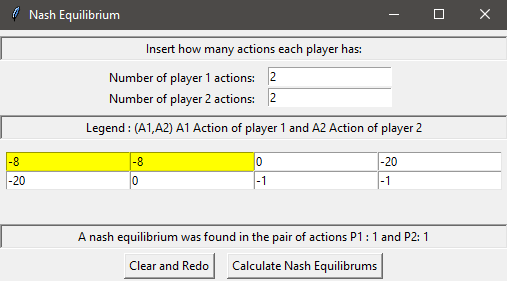
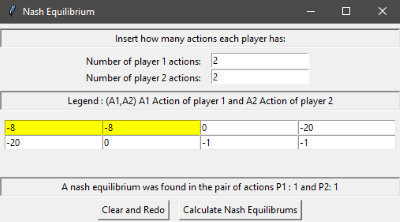
changed size of pics

diff --git a/README.md b/README.md
@@ -5,7 +5,7 @@
 ### Economics Related Scripts
 
 * Nash equilibrium calculation for normal games.
-![altext](https://github.com/jjgecon/Personal_coding_projects/blob/main/pics/nash.png "Nash")
+![alt text](https://github.com/jjgecon/Personal_coding_projects/blob/main/pics/nash.png "Nash")
 
 * Expected Utility Reduction Triangle: the Allais Paradox.
 ![alt text](https://github.com/jjgecon/Personal_coding_projects/blob/main/pics/prob_triangle.png "Allais Paradox")
